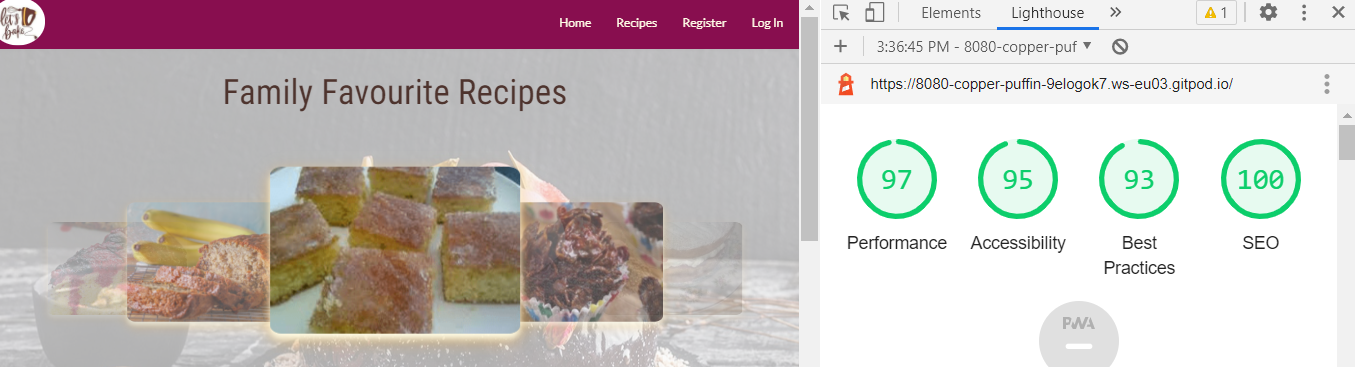
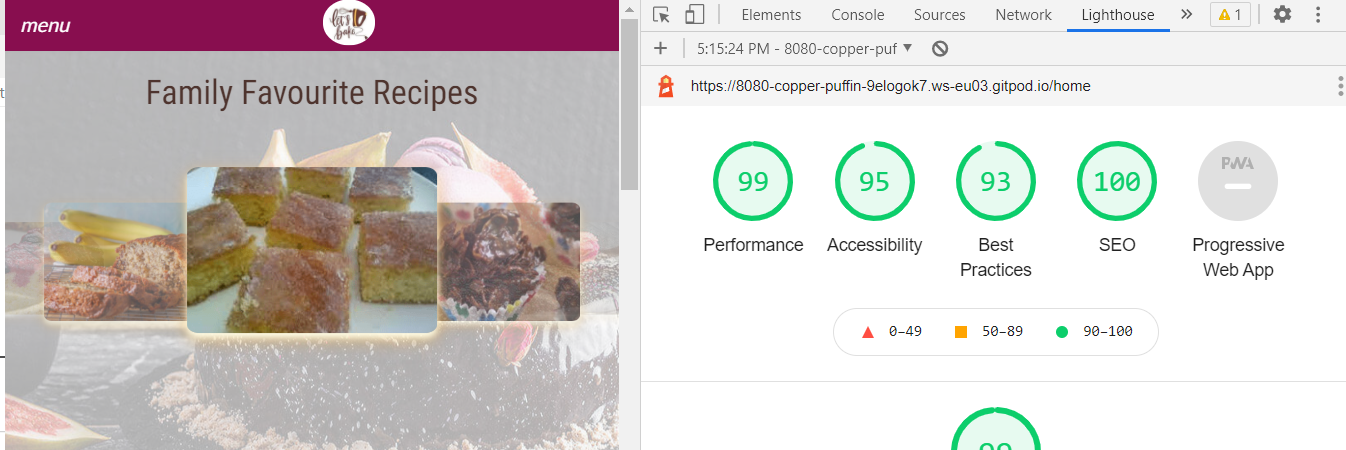
Minimize images for mobile.

diff --git a/templates/base.html b/templates/base.html
@@ -26,7 +26,7 @@
         <!-- Main Nav Bar-->
         <nav class="nav-extended">
             <div class="nav-wrapper">
-                Brand<a href="#" class="brand-logo">logo<img class="image-circle" src="{{ url_for('static', filename='images/icon.jpg') }}" alt="lets bake"></a>
+                <a href="#" class="brand-logo"><img class="image-circle" src="{{ url_for('static', filename='images/icon.jpg') }}" alt="lets bake"></a>
                 <a href="#" data-target="mobile-demo" class="sidenav-trigger"><i class="material-icons">menu</i></a>
                 <ul class="right hide-on-med-and-down">
                     <li><a href="{{ url_for('home')  }}">Home</a></li>

diff --git a/Test_Evidence.md b/Test_Evidence.md
@@ -213,10 +213,11 @@ I have added `rel="noopener"` which should avoid the issues.
 ![image](static/documentation_files/images/lighthouse_images/home_desk_SEO.png)
 1. There was no meta data wo I added.
 2. The `href` on the `a` tag for the brand logo was missing it's `#`
-![image](static/documentation_files/images/lighthouse_images/home_desk_after.png)
 #####   Final Test Results
+![image](static/documentation_files/images/lighthouse_images/home_desk_after.png)
 ####    Mobile
-![image]()
+![image](/workspace/MS3-My-Favourite-Recipes/static/documentation_files/images/lighthouse_images/home_mobile.png)
+I adjusted the size of the images 
 
 
 
